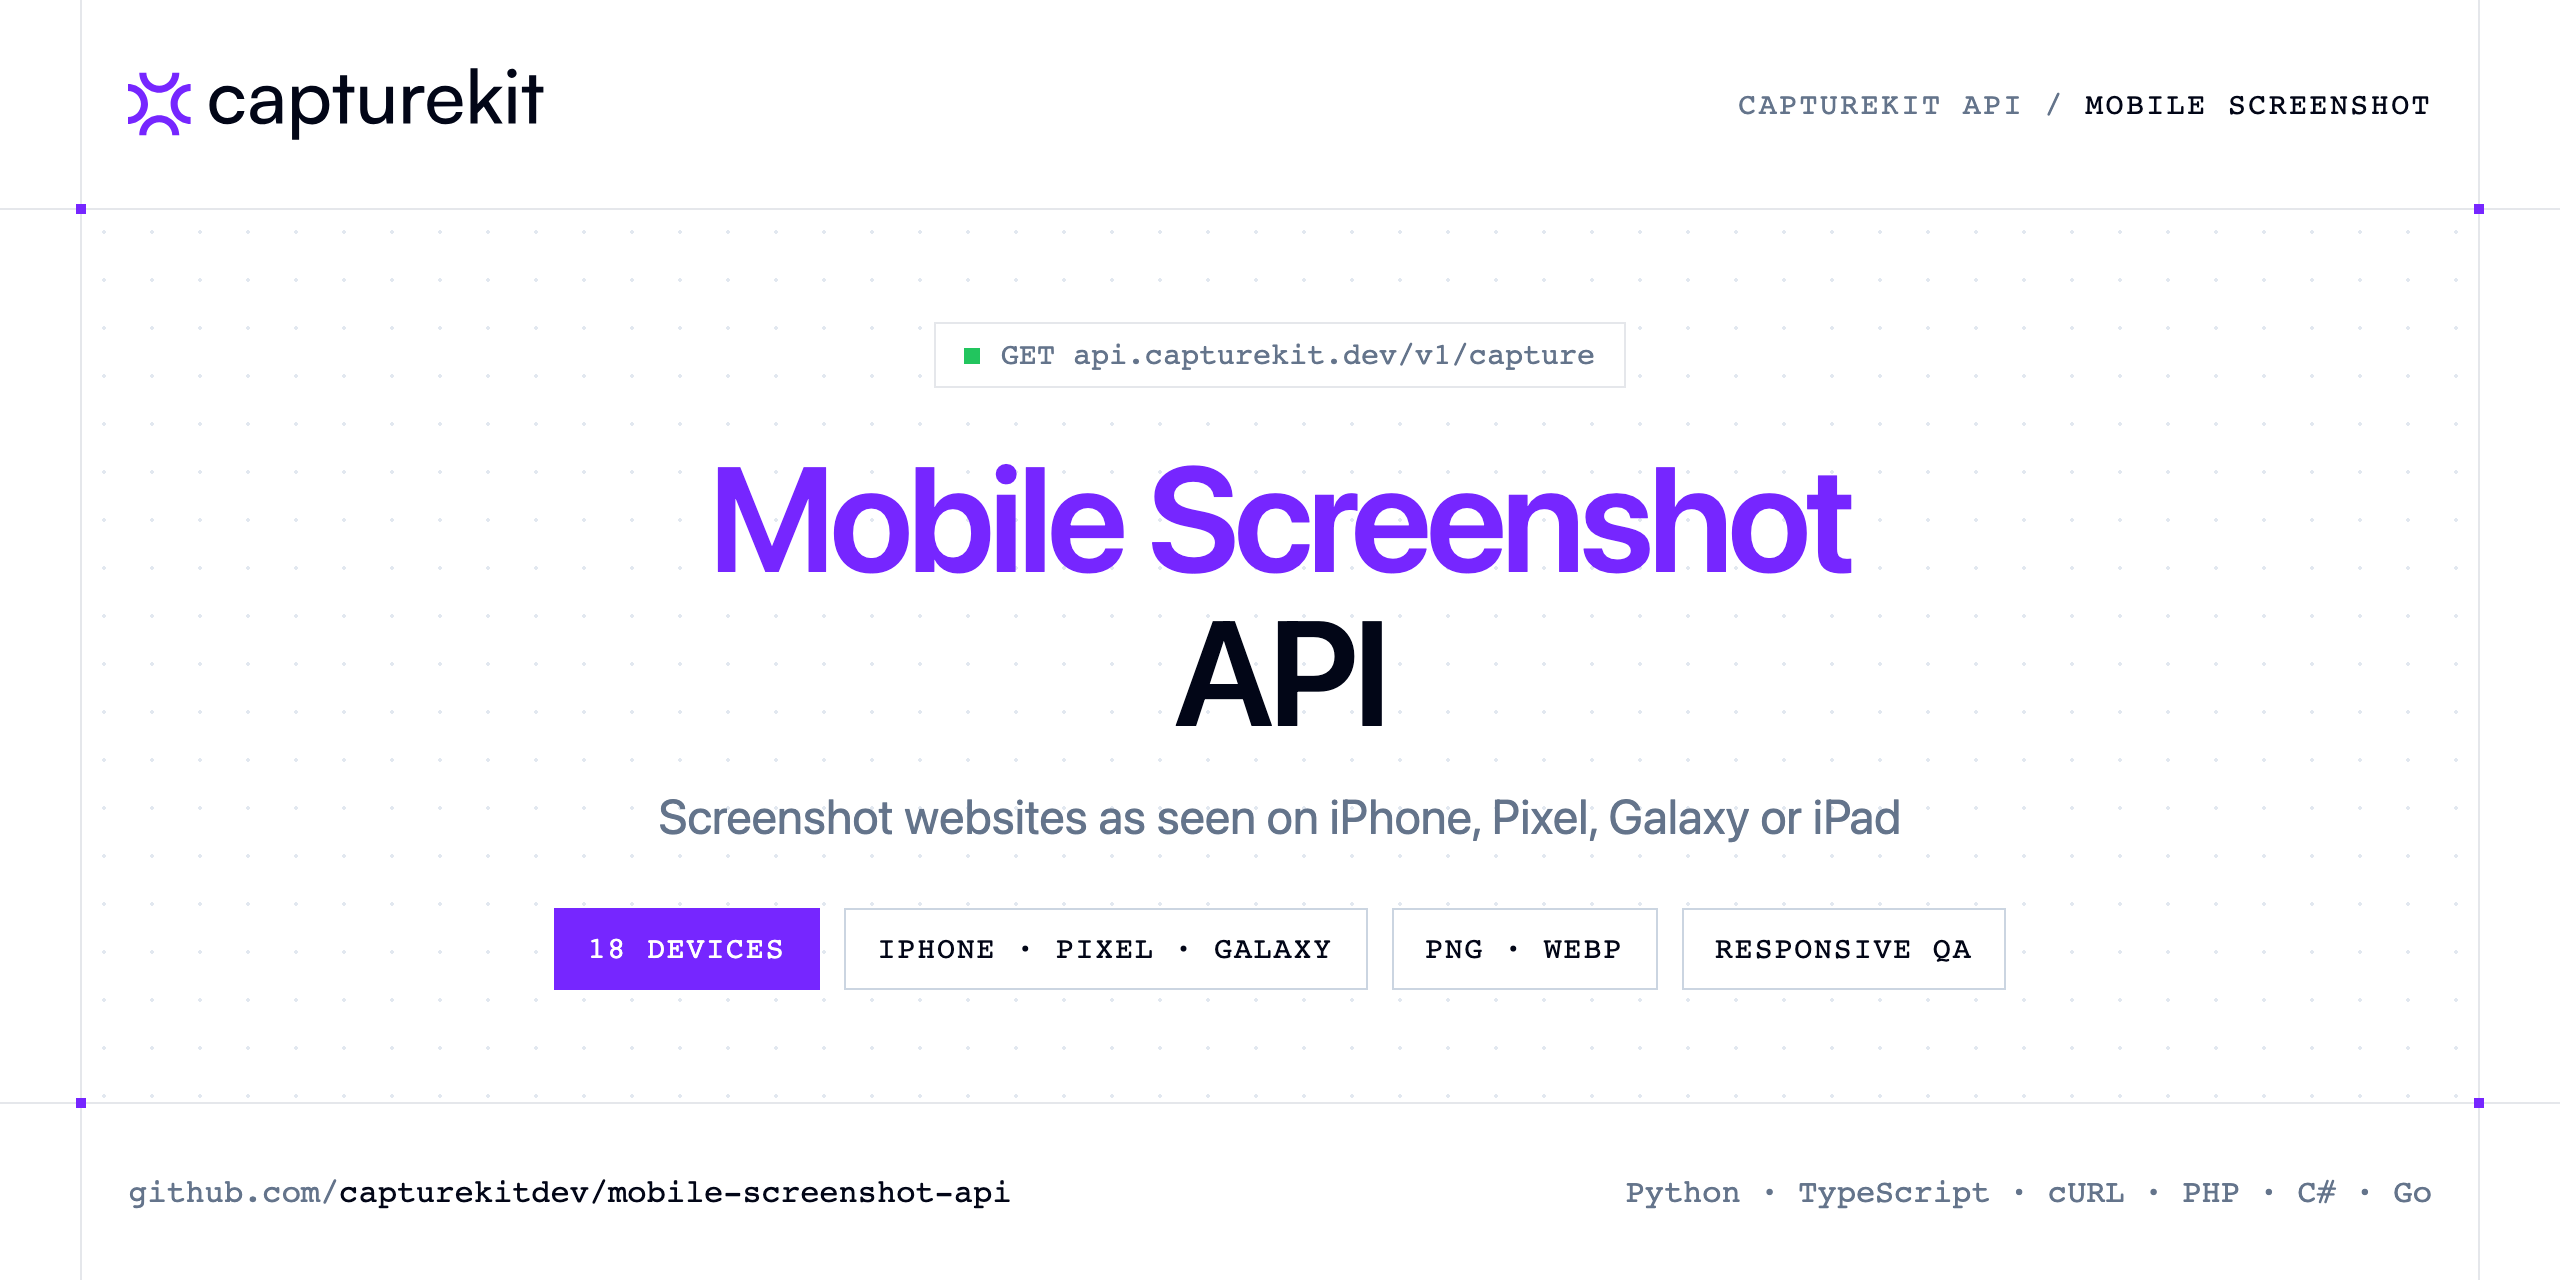
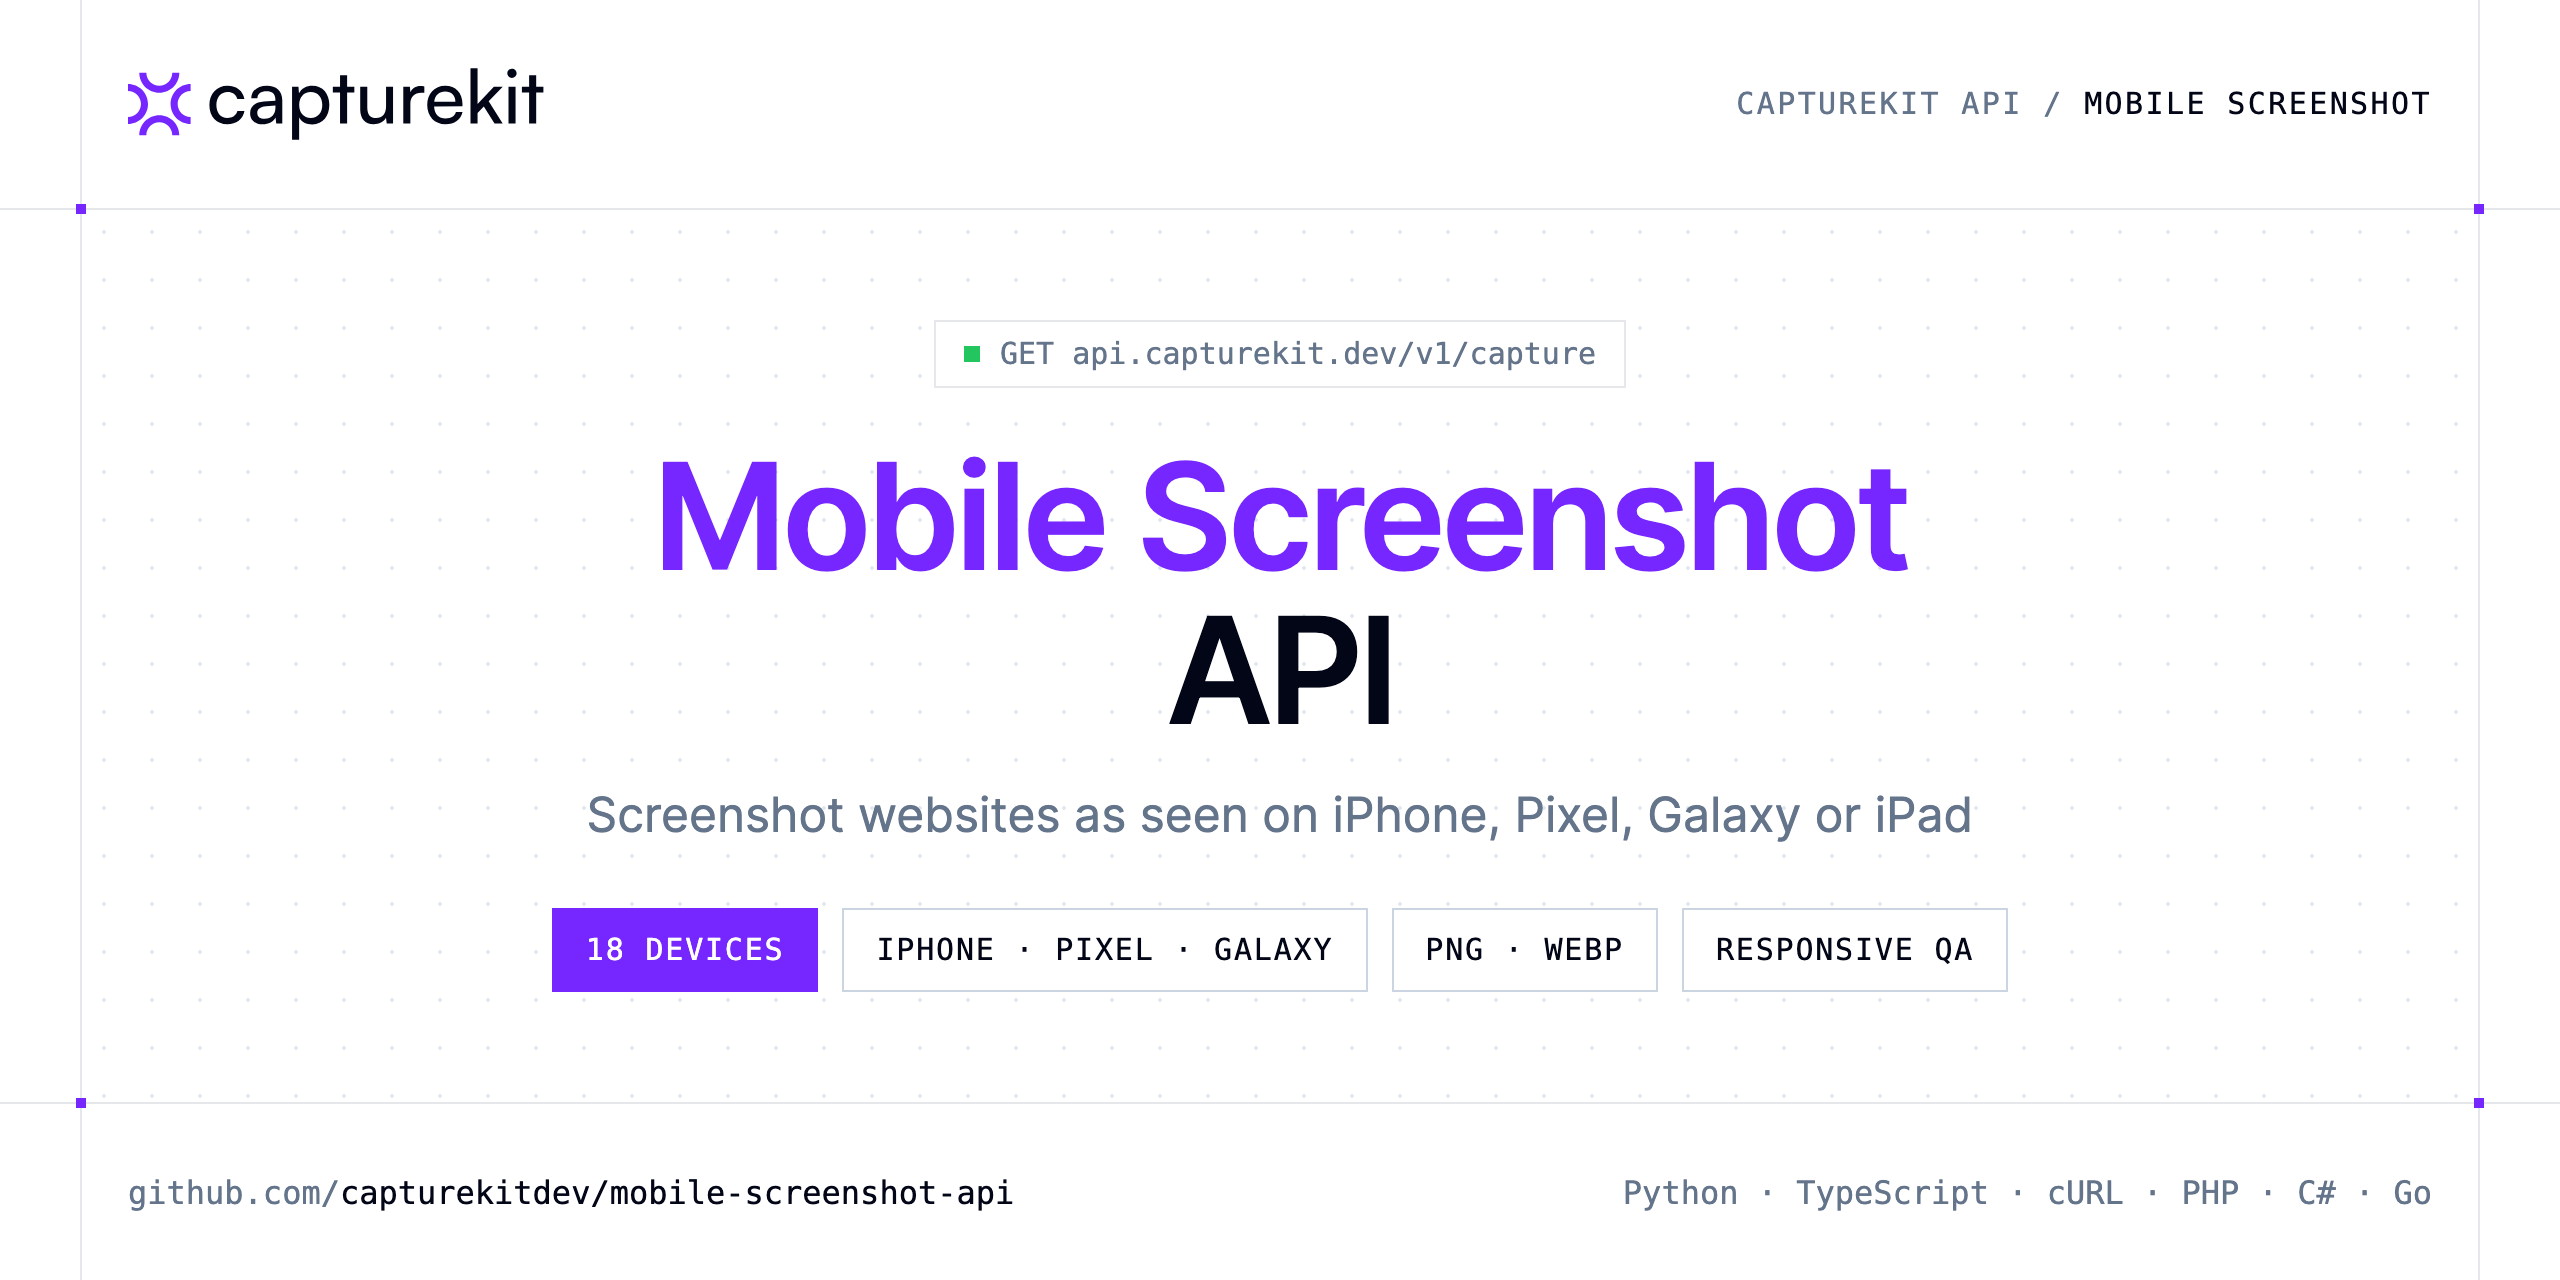
Update Mobile Screenshot API examples and docs

diff --git a/README.md b/README.md
@@ -181,7 +181,7 @@ Any language that can make an HTTP request. This README shows Python and TypeScr
 
 ## Related repositories
 
-- [Screenshot API](https://github.com/capturekitdev/screenshot-api)
+- [Screenshot API](https://github.com/capturekitdev/website-screenshot-api)
 - [Full Page Screenshot API](https://github.com/capturekitdev/full-page-screenshot-api)
 - [Website to PDF API](https://github.com/capturekitdev/website-to-pdf-api)
 - [Website Content API](https://github.com/capturekitdev/website-content-api)
